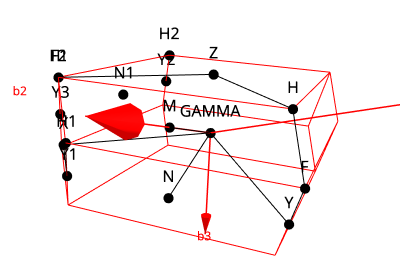
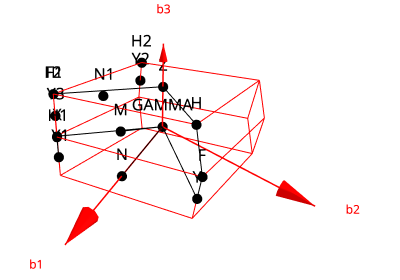
Fix and improve BL SC

diff --git a/docs/source/user-guide/conventions/sg-source_bravais-lattices/2_sc/plot_01_CUB.py b/docs/source/user-guide/conventions/sg-source_bravais-lattices/2_sc/plot_01_CUB.py
@@ -69,22 +69,28 @@ print(kp.hs_table(decimals=4))
 
 pe = wulfric.PlotlyEngine(_sphinx_gallery_fix=True)
 
-pe.plot_brillouin_zone(cell=cell, color="red")
+pe.plot_brillouin_zone(
+    cell=prim_cell, color="red", legend_label="Brillouin zone of the primitive cell"
+)
+pe.plot_brillouin_zone(
+    cell=cell, color="chocolate", legend_label="Brillouin zone of the original cell"
+)
 pe.plot_kpath(kp=kp)
 
 pe.show(axes_visible=False)
 
 
 # %%
-# Primitive and Wigner-Seitz cells
-# ================================
+# Cells of real space
+# ===================
 #
 # .. hint
 #     Click on the legend to hide some of the cells
 
 pe = wulfric.PlotlyEngine(_sphinx_gallery_fix=True)
 
-pe.plot_cell(cell=prim_cell, legend_label="Primitive cell", color="black")
+pe.plot_cell(cell=cell, legend_label="Original cell", color="black")
+pe.plot_cell(cell=prim_cell, legend_label="Primitive cell", color="indigo")
 pe.plot_cell(cell=conv_cell, legend_label="Conventional cell", color="blue")
 pe.plot_wigner_seitz_cell(
     cell=prim_cell, legend_label="Wigner-Seitz cell", color="green"

diff --git a/docs/source/user-guide/conventions/sg-source_bravais-lattices/2_sc/plot_02_FCC.py b/docs/source/user-guide/conventions/sg-source_bravais-lattices/2_sc/plot_02_FCC.py
@@ -69,22 +69,28 @@ print(kp.hs_table(decimals=4))
 
 pe = wulfric.PlotlyEngine(_sphinx_gallery_fix=True)
 
-pe.plot_brillouin_zone(cell=cell, color="red")
+pe.plot_brillouin_zone(
+    cell=prim_cell, color="red", legend_label="Brillouin zone of the primitive cell"
+)
+pe.plot_brillouin_zone(
+    cell=cell, color="chocolate", legend_label="Brillouin zone of the original cell"
+)
 pe.plot_kpath(kp=kp)
 
 pe.show(axes_visible=False)
 
 
 # %%
-# Primitive and Wigner-Seitz cells
-# ================================
+# Cells of real space
+# ===================
 #
 # .. hint
 #     Click on the legend to hide some of the cells
 
 pe = wulfric.PlotlyEngine(_sphinx_gallery_fix=True)
 
-pe.plot_cell(cell=prim_cell, legend_label="Primitive cell", color="black")
+pe.plot_cell(cell=cell, legend_label="Original cell", color="black")
+pe.plot_cell(cell=prim_cell, legend_label="Primitive cell", color="indigo")
 pe.plot_cell(cell=conv_cell, legend_label="Conventional cell", color="blue")
 pe.plot_wigner_seitz_cell(
     cell=prim_cell, legend_label="Wigner-Seitz cell", color="green"

diff --git a/docs/source/user-guide/conventions/sg-source_bravais-lattices/2_sc/plot_03_BCC.py b/docs/source/user-guide/conventions/sg-source_bravais-lattices/2_sc/plot_03_BCC.py
@@ -69,22 +69,28 @@ print(kp.hs_table(decimals=4))
 
 pe = wulfric.PlotlyEngine(_sphinx_gallery_fix=True)
 
-pe.plot_brillouin_zone(cell=cell, color="red")
+pe.plot_brillouin_zone(
+    cell=prim_cell, color="red", legend_label="Brillouin zone of the primitive cell"
+)
+pe.plot_brillouin_zone(
+    cell=cell, color="chocolate", legend_label="Brillouin zone of the original cell"
+)
 pe.plot_kpath(kp=kp)
 
 pe.show(axes_visible=False)
 
 
 # %%
-# Primitive and Wigner-Seitz cells
-# ================================
+# Cells of real space
+# ===================
 #
 # .. hint
 #     Click on the legend to hide some of the cells
 
 pe = wulfric.PlotlyEngine(_sphinx_gallery_fix=True)
 
-pe.plot_cell(cell=prim_cell, legend_label="Primitive cell", color="black")
+pe.plot_cell(cell=cell, legend_label="Original cell", color="black")
+pe.plot_cell(cell=prim_cell, legend_label="Primitive cell", color="indigo")
 pe.plot_cell(cell=conv_cell, legend_label="Conventional cell", color="blue")
 pe.plot_wigner_seitz_cell(
     cell=prim_cell, legend_label="Wigner-Seitz cell", color="green"

diff --git a/docs/source/user-guide/conventions/sg-source_bravais-lattices/2_sc/plot_04_TET.py b/docs/source/user-guide/conventions/sg-source_bravais-lattices/2_sc/plot_04_TET.py
@@ -70,22 +70,28 @@ print(kp.hs_table(decimals=4))
 
 pe = wulfric.PlotlyEngine(_sphinx_gallery_fix=True)
 
-pe.plot_brillouin_zone(cell=cell, color="red")
+pe.plot_brillouin_zone(
+    cell=prim_cell, color="red", legend_label="Brillouin zone of the primitive cell"
+)
+pe.plot_brillouin_zone(
+    cell=cell, color="chocolate", legend_label="Brillouin zone of the original cell"
+)
 pe.plot_kpath(kp=kp)
 
 pe.show(axes_visible=False)
 
 
 # %%
-# Primitive and Wigner-Seitz cells
-# ================================
+# Cells of real space
+# ===================
 #
 # .. hint
 #     Click on the legend to hide some of the cells
 
 pe = wulfric.PlotlyEngine(_sphinx_gallery_fix=True)
 
-pe.plot_cell(cell=prim_cell, legend_label="Primitive cell", color="black")
+pe.plot_cell(cell=cell, legend_label="Original cell", color="black")
+pe.plot_cell(cell=prim_cell, legend_label="Primitive cell", color="indigo")
 pe.plot_cell(cell=conv_cell, legend_label="Conventional cell", color="blue")
 pe.plot_wigner_seitz_cell(
     cell=prim_cell, legend_label="Wigner-Seitz cell", color="green"

diff --git a/docs/source/user-guide/conventions/sg-source_bravais-lattices/2_sc/plot_05_BCT1.py b/docs/source/user-guide/conventions/sg-source_bravais-lattices/2_sc/plot_05_BCT1.py
@@ -80,22 +80,28 @@ print(kp.hs_table(decimals=4))
 
 pe = wulfric.PlotlyEngine(_sphinx_gallery_fix=True)
 
-pe.plot_brillouin_zone(cell=cell, color="red")
+pe.plot_brillouin_zone(
+    cell=prim_cell, color="red", legend_label="Brillouin zone of the primitive cell"
+)
+pe.plot_brillouin_zone(
+    cell=cell, color="chocolate", legend_label="Brillouin zone of the original cell"
+)
 pe.plot_kpath(kp=kp)
 
 pe.show(axes_visible=False)
 
 
 # %%
-# Primitive and Wigner-Seitz cells
-# ================================
+# Cells of real space
+# ===================
 #
 # .. hint
 #     Click on the legend to hide some of the cells
 
 pe = wulfric.PlotlyEngine(_sphinx_gallery_fix=True)
 
-pe.plot_cell(cell=prim_cell, legend_label="Primitive cell", color="black")
+pe.plot_cell(cell=cell, legend_label="Original cell", color="black")
+pe.plot_cell(cell=prim_cell, legend_label="Primitive cell", color="indigo")
 pe.plot_cell(cell=conv_cell, legend_label="Conventional cell", color="blue")
 pe.plot_wigner_seitz_cell(
     cell=prim_cell, legend_label="Wigner-Seitz cell", color="green"

diff --git a/docs/source/user-guide/conventions/sg-source_bravais-lattices/2_sc/plot_06_BCT2.py b/docs/source/user-guide/conventions/sg-source_bravais-lattices/2_sc/plot_06_BCT2.py
@@ -81,22 +81,28 @@ print(kp.hs_table(decimals=4))
 
 pe = wulfric.PlotlyEngine(_sphinx_gallery_fix=True)
 
-pe.plot_brillouin_zone(cell=cell, color="red")
+pe.plot_brillouin_zone(
+    cell=prim_cell, color="red", legend_label="Brillouin zone of the primitive cell"
+)
+pe.plot_brillouin_zone(
+    cell=cell, color="chocolate", legend_label="Brillouin zone of the original cell"
+)
 pe.plot_kpath(kp=kp)
 
 pe.show(axes_visible=False)
 
 
 # %%
-# Primitive and Wigner-Seitz cells
-# ================================
+# Cells of real space
+# ===================
 #
 # .. hint
 #     Click on the legend to hide some of the cells
 
 pe = wulfric.PlotlyEngine(_sphinx_gallery_fix=True)
 
-pe.plot_cell(cell=prim_cell, legend_label="Primitive cell", color="black")
+pe.plot_cell(cell=cell, legend_label="Original cell", color="black")
+pe.plot_cell(cell=prim_cell, legend_label="Primitive cell", color="indigo")
 pe.plot_cell(cell=conv_cell, legend_label="Conventional cell", color="blue")
 pe.plot_wigner_seitz_cell(
     cell=prim_cell, legend_label="Wigner-Seitz cell", color="green"

diff --git a/docs/source/user-guide/conventions/sg-source_bravais-lattices/2_sc/plot_07_ORC.py b/docs/source/user-guide/conventions/sg-source_bravais-lattices/2_sc/plot_07_ORC.py
@@ -71,22 +71,28 @@ print(kp.hs_table(decimals=4))
 
 pe = wulfric.PlotlyEngine(_sphinx_gallery_fix=True)
 
-pe.plot_brillouin_zone(cell=cell, color="red")
+pe.plot_brillouin_zone(
+    cell=prim_cell, color="red", legend_label="Brillouin zone of the primitive cell"
+)
+pe.plot_brillouin_zone(
+    cell=cell, color="chocolate", legend_label="Brillouin zone of the original cell"
+)
 pe.plot_kpath(kp=kp)
 
 pe.show(axes_visible=False)
 
 
 # %%
-# Primitive and Wigner-Seitz cells
-# ================================
+# Cells of real space
+# ===================
 #
 # .. hint
 #     Click on the legend to hide some of the cells
 
 pe = wulfric.PlotlyEngine(_sphinx_gallery_fix=True)
 
-pe.plot_cell(cell=prim_cell, legend_label="Primitive cell", color="black")
+pe.plot_cell(cell=cell, legend_label="Original cell", color="black")
+pe.plot_cell(cell=prim_cell, legend_label="Primitive cell", color="indigo")
 pe.plot_cell(cell=conv_cell, legend_label="Conventional cell", color="blue")
 pe.plot_wigner_seitz_cell(
     cell=prim_cell, legend_label="Wigner-Seitz cell", color="green"

diff --git a/docs/source/user-guide/conventions/sg-source_bravais-lattices/2_sc/plot_08_ORCF1.py b/docs/source/user-guide/conventions/sg-source_bravais-lattices/2_sc/plot_08_ORCF1.py
@@ -82,22 +82,28 @@ print(kp.hs_table(decimals=4))
 
 pe = wulfric.PlotlyEngine(_sphinx_gallery_fix=True)
 
-pe.plot_brillouin_zone(cell=cell, color="red")
+pe.plot_brillouin_zone(
+    cell=prim_cell, color="red", legend_label="Brillouin zone of the primitive cell"
+)
+pe.plot_brillouin_zone(
+    cell=cell, color="chocolate", legend_label="Brillouin zone of the original cell"
+)
 pe.plot_kpath(kp=kp)
 
 pe.show(axes_visible=False)
 
 
 # %%
-# Primitive and Wigner-Seitz cells
-# ================================
+# Cells of real space
+# ===================
 #
 # .. hint
 #     Click on the legend to hide some of the cells
 
 pe = wulfric.PlotlyEngine(_sphinx_gallery_fix=True)
 
-pe.plot_cell(cell=prim_cell, legend_label="Primitive cell", color="black")
+pe.plot_cell(cell=cell, legend_label="Original cell", color="black")
+pe.plot_cell(cell=prim_cell, legend_label="Primitive cell", color="indigo")
 pe.plot_cell(cell=conv_cell, legend_label="Conventional cell", color="blue")
 pe.plot_wigner_seitz_cell(
     cell=prim_cell, legend_label="Wigner-Seitz cell", color="green"

diff --git a/docs/source/user-guide/conventions/sg-source_bravais-lattices/2_sc/plot_09_ORCF2.py b/docs/source/user-guide/conventions/sg-source_bravais-lattices/2_sc/plot_09_ORCF2.py
@@ -82,22 +82,28 @@ print(kp.hs_table(decimals=4))
 
 pe = wulfric.PlotlyEngine(_sphinx_gallery_fix=True)
 
-pe.plot_brillouin_zone(cell=cell, color="red")
+pe.plot_brillouin_zone(
+    cell=prim_cell, color="red", legend_label="Brillouin zone of the primitive cell"
+)
+pe.plot_brillouin_zone(
+    cell=cell, color="chocolate", legend_label="Brillouin zone of the original cell"
+)
 pe.plot_kpath(kp=kp)
 
 pe.show(axes_visible=False)
 
 
 # %%
-# Primitive and Wigner-Seitz cells
-# ================================
+# Cells of real space
+# ===================
 #
 # .. hint
 #     Click on the legend to hide some of the cells
 
 pe = wulfric.PlotlyEngine(_sphinx_gallery_fix=True)
 
-pe.plot_cell(cell=prim_cell, legend_label="Primitive cell", color="black")
+pe.plot_cell(cell=cell, legend_label="Original cell", color="black")
+pe.plot_cell(cell=prim_cell, legend_label="Primitive cell", color="indigo")
 pe.plot_cell(cell=conv_cell, legend_label="Conventional cell", color="blue")
 pe.plot_wigner_seitz_cell(
     cell=prim_cell, legend_label="Wigner-Seitz cell", color="green"

diff --git a/docs/source/user-guide/conventions/sg-source_bravais-lattices/2_sc/plot_10_ORCF3.py b/docs/source/user-guide/conventions/sg-source_bravais-lattices/2_sc/plot_10_ORCF3.py
@@ -82,22 +82,28 @@ print(kp.hs_table(decimals=4))
 
 pe = wulfric.PlotlyEngine(_sphinx_gallery_fix=True)
 
-pe.plot_brillouin_zone(cell=cell, color="red")
+pe.plot_brillouin_zone(
+    cell=prim_cell, color="red", legend_label="Brillouin zone of the primitive cell"
+)
+pe.plot_brillouin_zone(
+    cell=cell, color="chocolate", legend_label="Brillouin zone of the original cell"
+)
 pe.plot_kpath(kp=kp)
 
 pe.show(axes_visible=False)
 
 
 # %%
-# Primitive and Wigner-Seitz cells
-# ================================
+# Cells of real space
+# ===================
 #
 # .. hint
 #     Click on the legend to hide some of the cells
 
 pe = wulfric.PlotlyEngine(_sphinx_gallery_fix=True)
 
-pe.plot_cell(cell=prim_cell, legend_label="Primitive cell", color="black")
+pe.plot_cell(cell=cell, legend_label="Original cell", color="black")
+pe.plot_cell(cell=prim_cell, legend_label="Primitive cell", color="indigo")
 pe.plot_cell(cell=conv_cell, legend_label="Conventional cell", color="blue")
 pe.plot_wigner_seitz_cell(
     cell=prim_cell, legend_label="Wigner-Seitz cell", color="green"

diff --git a/docs/source/user-guide/conventions/sg-source_bravais-lattices/2_sc/plot_11_ORCI.py b/docs/source/user-guide/conventions/sg-source_bravais-lattices/2_sc/plot_11_ORCI.py
@@ -71,22 +71,28 @@ print(kp.hs_table(decimals=4))
 
 pe = wulfric.PlotlyEngine(_sphinx_gallery_fix=True)
 
-pe.plot_brillouin_zone(cell=cell, color="red")
+pe.plot_brillouin_zone(
+    cell=prim_cell, color="red", legend_label="Brillouin zone of the primitive cell"
+)
+pe.plot_brillouin_zone(
+    cell=cell, color="chocolate", legend_label="Brillouin zone of the original cell"
+)
 pe.plot_kpath(kp=kp)
 
 pe.show(axes_visible=False)
 
 
 # %%
-# Primitive and Wigner-Seitz cells
-# ================================
+# Cells of real space
+# ===================
 #
 # .. hint
 #     Click on the legend to hide some of the cells
 
 pe = wulfric.PlotlyEngine(_sphinx_gallery_fix=True)
 
-pe.plot_cell(cell=prim_cell, legend_label="Primitive cell", color="black")
+pe.plot_cell(cell=cell, legend_label="Original cell", color="black")
+pe.plot_cell(cell=prim_cell, legend_label="Primitive cell", color="indigo")
 pe.plot_cell(cell=conv_cell, legend_label="Conventional cell", color="blue")
 pe.plot_wigner_seitz_cell(
     cell=prim_cell, legend_label="Wigner-Seitz cell", color="green"

diff --git a/docs/source/user-guide/conventions/sg-source_bravais-lattices/2_sc/plot_12_ORCC.py b/docs/source/user-guide/conventions/sg-source_bravais-lattices/2_sc/plot_12_ORCC.py
@@ -71,22 +71,28 @@ print(kp.hs_table(decimals=4))
 
 pe = wulfric.PlotlyEngine(_sphinx_gallery_fix=True)
 
-pe.plot_brillouin_zone(cell=cell, color="red")
+pe.plot_brillouin_zone(
+    cell=prim_cell, color="red", legend_label="Brillouin zone of the primitive cell"
+)
+pe.plot_brillouin_zone(
+    cell=cell, color="chocolate", legend_label="Brillouin zone of the original cell"
+)
 pe.plot_kpath(kp=kp)
 
 pe.show(axes_visible=False)
 
 
 # %%
-# Primitive and Wigner-Seitz cells
-# ================================
+# Cells of real space
+# ===================
 #
 # .. hint
 #     Click on the legend to hide some of the cells
 
 pe = wulfric.PlotlyEngine(_sphinx_gallery_fix=True)
 
-pe.plot_cell(cell=prim_cell, legend_label="Primitive cell", color="black")
+pe.plot_cell(cell=cell, legend_label="Original cell", color="black")
+pe.plot_cell(cell=prim_cell, legend_label="Primitive cell", color="indigo")
 pe.plot_cell(cell=conv_cell, legend_label="Conventional cell", color="blue")
 pe.plot_wigner_seitz_cell(
     cell=prim_cell, legend_label="Wigner-Seitz cell", color="green"
